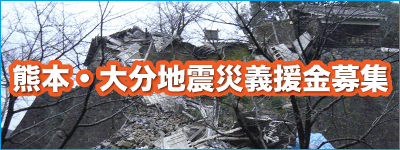
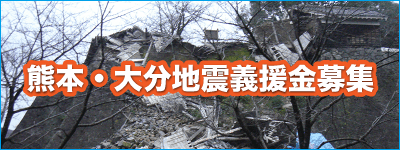
[FIX]注釈追加

Changed region(s): [[0.0, 0.3733, 0.99, 0.6667], [0.72, 0.9867, 0.75, 1.0]]

diff --git a/gokifu/fuji_kannon_sui.html b/gokifu/fuji_kannon_sui.html
@@ -280,10 +280,22 @@ $(function() {
 	</div>
 </div>
 	</section>
+	
+<section id="movie">
+  <div class="container">
+			<blockquote class="inyouColor1"><h2>映像で見る富士観音水 </h2></blockquote>
+    <div class="row">
+      	<div class="col-lg-4 bottom20"><div class="youtube"><iframe width="560" height="315" src="https://www.youtube.com/embed/erDLJOsdblg?rel=0" frameborder="0" allowfullscreen></iframe></div></div>
+      	<div class="col-lg-4 bottom20"><div class="youtube"><iframe width="560" height="315" src="https://www.youtube.com/embed/60YiCnlcEns?rel=0" frameborder="0" allowfullscreen></iframe></div></div>
+      	<div class="col-lg-4 bottom20"><div class="youtube"><iframe width="560" height="315" src="https://www.youtube.com/embed/1eXc4_5WVao?rel=0" frameborder="0" allowfullscreen></iframe></div></div>
+   	</div>
+	</div>
+</section>
+
 <section id="contact">
 	<div class="container top30">
  <p class="text-center"><a href="../gokicyou/fuji_kannon_sui_gokicyou.html" class="btn btn-primary btn-block orderText1" role="button">寄付をする</a></p>	
- </div>
+        <p class="text-center">ご寄付につきましては匿名でも承っております。お気軽にお寄せ頂きますようよろしくお願い申し上げます。</p></div>
 </section>
 	<!-- InstanceEndEditable -->
 <hr>

diff --git a/gokifu/akiya.html b/gokifu/akiya.html
@@ -243,7 +243,7 @@ $(function() {
 			<div class="col-lg-12">
 				<p>情は他人の為ならず。巡り巡って己が為。<br>
 ブリティッシュコロンビア大学 エリザベス・ダン博士のハッピーマネー（幸福になるためにお金の使い方）の中で、「他人に投資する」というものがあります。その原則に従って「誰かのためにお金を使うと、自分の幸福度が増す」というのです。<br>
-つまり、寄付は困った他人おためではなく、自分を幸せに導くということです。<br>
+つまり、寄付は困った他人のためではなく、自分を幸せに導くということです。<br>
 また、天台宗の開祖最澄は「自利とは利他をいふ」という言葉を残しています。利他の実践がそのまま自分の幸せという教えなのです。<br>
 みなさん、すすんで寄付をしましょう。「徳」すなわち「得」を得るために。</p>
 			</div>

diff --git a/gokicyou/kumamoto_gokicyou.html b/gokicyou/kumamoto_gokicyou.html
@@ -144,7 +144,8 @@ AjaxZip2.JSONDATA = 'http://kan-non-hikari.sakura.ne.jp/mailmag/acc.cgi?mode=jso
    <section id="kannon"> 
     <div class="col-lg-9 col-md-12">
 			<blockquote class="inyouColor1"><h2>ご記帳 </h2></blockquote>
-			<p>この度は、熊本・大分地震に義援金をお寄せ頂きありがとうございます。つきましては、ご記帳していただき下記のボタンより「決済のご案内」へお進み下さい。</p>
+			<p>この度は、熊本・大分地震に義援金をお寄せ頂きありがとうございます。つきましては、ご記帳していただき下記のボタンより「決済のご案内」へお進み下さい。<br>
+なお、義援金の募集につきましては匿名でも承っておりますので、お気軽にお寄せ頂きますようお願い申し上げます。</p>
 			<div class="row">
 				<div class="col-lg-12 col-xs-12">
 			  

diff --git a/gokicyou/kumamoto_kessai.html b/gokicyou/kumamoto_kessai.html
@@ -136,7 +136,8 @@ $(function() {
     <div class="col-lg-9 col-md-12">
 			<blockquote class="inyouColor1"><h2>ご決済のご案内 </h2></blockquote>
 			<p>熊本・大分地震につきまして義援金を賜りありがとうございます。<br>
-つきましては、下記にございます「クレジット決済」または「銀行振込」のいずれかにて義援金を賜りますようお願い申し上げます。</p>
+つきましては、下記にございます「クレジット決済」または「銀行振込」のいずれかにて義援金を賜りますようお願い申し上げます。<br>
+なお、匿名での受付を可能にしておりますが、クレジット決済の手続きではご本人の実際のお名前の入力が必要となります。予めご承知おきください。</p>
         <hr>
 			<div class="row bottom30">
 				<div class="col-lg-12">

diff --git a/gokicyou/higashinihon_kessai.html b/gokicyou/higashinihon_kessai.html
@@ -136,7 +136,8 @@ $(function() {
     <div class="col-lg-9 col-md-12">
 			<blockquote class="inyouColor1"><h2>ご決済のご案内 </h2></blockquote>
 			<p>東日本大震災につきまして義援金を賜りありがとうございます。<br>
-つきましては、下記にございます「クレジット決済」または「銀行振込」のいずれかにて義援金を賜りますようお願い申し上げます。</p>
+つきましては、下記にございます「クレジット決済」または「銀行振込」のいずれかにて義援金を賜りますようお願い申し上げます。<br>
+なお、匿名での受付を可能にしておりますが、クレジット決済の手続きではご本人の実際のお名前の入力が必要となります。予めご承知おきください。</p>
         <hr>
 			<div class="row bottom30">
 				<div class="col-lg-12">

diff --git a/gokicyou/fuji_kannon_sui_kessai.html b/gokicyou/fuji_kannon_sui_kessai.html
@@ -136,7 +136,8 @@ $(function() {
     <div class="col-lg-9 col-md-12">
 			<blockquote class="inyouColor1"><h2>ご決済のご案内 </h2></blockquote>
 			<p>富士観音水につきましてご寄付を賜りありがとうございます。<br>
-つきましては、下記にございます「クレジット決済」または「銀行振込」のいずれかにて義援金を賜りますようお願い申し上げます。</p>
+つきましては、下記にございます「クレジット決済」または「銀行振込」のいずれかにて義援金を賜りますようお願い申し上げます。<br>
+なお、匿名での受付を可能にしておりますが、クレジット決済の手続きではご本人の実際のお名前の入力が必要となります。予めご承知おきください。</p>
         <hr>
 			<div class="row bottom30">
 				<div class="col-lg-12">

diff --git a/gokicyou/kaikan_kessai.html b/gokicyou/kaikan_kessai.html
@@ -136,7 +136,8 @@ $(function() {
     <div class="col-lg-9 col-md-12">
 			<blockquote class="inyouColor1"><h2>ご決済のご案内 </h2></blockquote>
 			<p>お遍路会館につきましてご寄付を賜りありがとうございます。<br>
-つきましては、下記にございます「クレジット決済」または「銀行振込」のいずれかにて義援金を賜りますようお願い申し上げます。</p>
+つきましては、下記にございます「クレジット決済」または「銀行振込」のいずれかにて義援金を賜りますようお願い申し上げます。<br>
+なお、匿名での受付を可能にしておりますが、クレジット決済の手続きではご本人の実際のお名前の入力が必要となります。予めご承知おきください。</p>
         <hr>
 			<div class="row bottom30">
 				<div class="col-lg-12">

diff --git a/gokicyou/higashinihon_gokicyou.html b/gokicyou/higashinihon_gokicyou.html
@@ -137,7 +137,8 @@ $(function() {
    <section id="kannon"> 
     <div class="col-lg-9 col-md-12">
 			<blockquote class="inyouColor1"><h2>ご記帳 </h2></blockquote>
-			<p>この度は、東日本大震災に義援金をお寄せ頂きありがとうございます。つきましては、ご記帳していただき下記のボタンより「決済のご案内」へお進み下さい。</p>
+			<p>この度は、東日本大震災に義援金をお寄せ頂きありがとうございます。つきましては、ご記帳していただき下記のボタンより「決済のご案内」へお進み下さい。<br>
+なお、義援金の募集につきましては匿名でも承っておりますので、お気軽にお寄せ頂きますようお願い申し上げます。</p>
 			
 				<div class="row">
 					<div class="col-lg-12">

diff --git a/gokicyou/fuji_kannon_sui_gokicyou.html b/gokicyou/fuji_kannon_sui_gokicyou.html
@@ -137,7 +137,8 @@ $(function() {
    <section id="kannon"> 
     <div class="col-lg-9 col-md-12">
 			<blockquote class="inyouColor1"><h2>ご記帳 </h2></blockquote>
-			<p>この度は、富士観音水へのご寄付をお寄せ頂きありがとうございます。つきましては、ご記帳していただき下記のボタンより「決済のご案内」へお進み下さい。</p>
+			<p>この度は、富士観音水へのご寄付をお寄せ頂きありがとうございます。つきましては、ご記帳していただき下記のボタンより「決済のご案内」へお進み下さい。<br>
+なお、ご寄付につきましては匿名でも承っておりますので、お気軽にお寄せ頂きますようお願い申し上げます。</p>
 			
 				<div class="row">
 					<div class="col-lg-12">

diff --git a/gokicyou/kaikan_gokicyou.html b/gokicyou/kaikan_gokicyou.html
@@ -137,7 +137,8 @@ $(function() {
    <section id="kannon"> 
     <div class="col-lg-9 col-md-12">
 			<blockquote class="inyouColor1"><h2>ご記帳 </h2></blockquote>
-			<p>この度は、お遍路会館へのご寄付をお寄せ頂きありがとうございます。つきましては、ご記帳していただき下記のボタンより「決済のご案内」へお進み下さい。</p>
+			<p>この度は、お遍路会館へのご寄付をお寄せ頂きありがとうございます。つきましては、ご記帳していただき下記のボタンより「決済のご案内」へお進み下さい。<br>
+なお、ご寄付につきましては匿名でも承っておりますので、お気軽にお寄せ頂きますようお願い申し上げます。</p>
 			
 				<div class="row">
 					<div class="col-lg-12">

diff --git a/gienkin/higashi_nihon.html b/gienkin/higashi_nihon.html
@@ -279,7 +279,8 @@ $(function() {
 </section>
 <section id="donation">
 	<div class="container top30">
- <p class="text-center"><a href="../gokicyou/higashinihon_gokicyou.html" class="btn btn-success btn-block orderText1" role="button">義援金の寄付をする</a></p>	</div>
+ <p class="text-center"><a href="../gokicyou/higashinihon_gokicyou.html" class="btn btn-success btn-block orderText1" role="button">義援金の寄付をする</a></p>
+ <p class="text-center">義援金の募集は匿名でも承っております。お気軽にお寄せ頂きますようよろしくお願い申し上げます。</p>	</div>
 </section>
 
 <!-- InstanceEndEditable -->

diff --git a/gienkin/kumamoto.html b/gienkin/kumamoto.html
@@ -277,7 +277,8 @@ $(function() {
 </section>
 <section id="donation">
 	<div class="container top30">
- <p class="text-center"><a href="../gokicyou/kumamoto_gokicyou.html" class="btn btn-success btn-block orderText1" role="button">義援金の寄付をする</a></p>	</div>
+ <p class="text-center"><a href="../gokicyou/kumamoto_gokicyou.html" class="btn btn-success btn-block orderText1" role="button">義援金の寄付をする</a></p>
+ <p class="text-center">義援金の募集は匿名でも承っております。お気軽にお寄せ頂きますようよろしくお願い申し上げます。</p>	</div>
 </section>
 <!-- InstanceEndEditable -->
 <hr>
